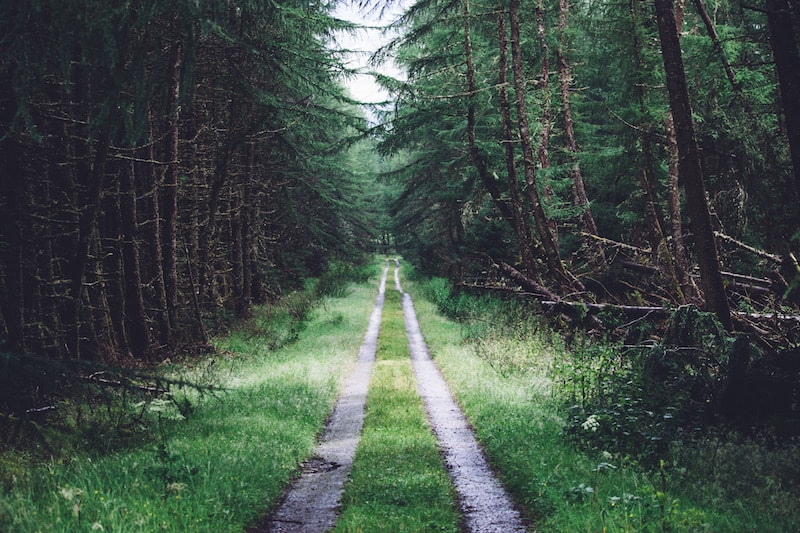
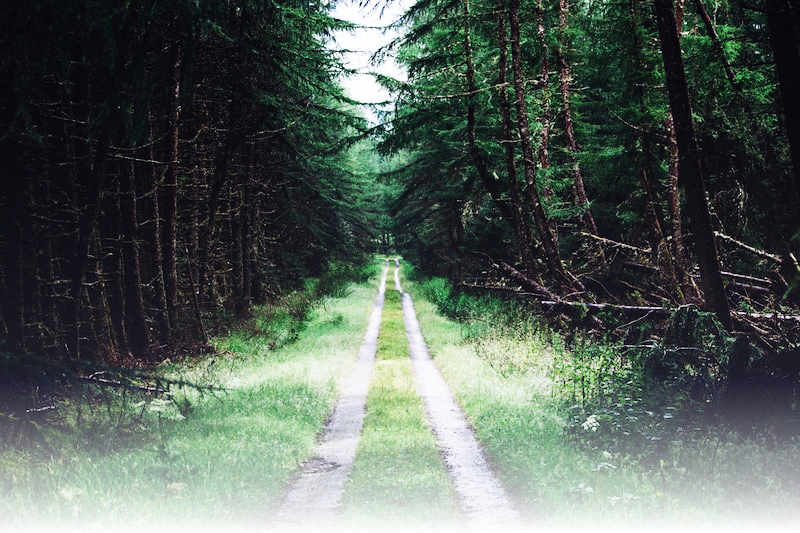
feat: updated pic and color for footer btns

diff --git a/plainJaneTester/dist/index.html b/plainJaneTester/dist/index.html
@@ -1,1 +1,1 @@
-<!DOCTYPE html><html> <head> <meta charset="utf-8"> <meta name="viewport" content="width=device-width, initial-scale=1"> <title>Four Gun Rules</title> <link href="https://fonts.googleapis.com/css?family=Roboto:300,300i,400,400i,700" rel="stylesheet"> <link href='./css/styles.css' rel='stylesheet'> </head> <body> <section> <header class='center'> <div> <p> Whether you are just entering your new found hobby, a veteran or somewhere in between it is important to employ safety as a principle rule when operating firearms. </p><p> These are not my rules, these are OUR rules. </p></div></header> <summary> <img src='./img/road.jpg' alt='road'/> <p class='rules margin5px'> <h3 class='title center margin5px'>THE FOUR RULES</h3> <div class='ruleContainer'> <div class='rule'> 1. <span class='bold'>G</span><span class='italic'>uns should ALWAYS be treated as if they are loaded. (Even when they are not!)</span> </div><div class='rule'> 2. <span class='bold'>U</span><span class='italic'>nder no circumstance should you point your gun at anything you are not willing to destroy.</span> </div><div class='rule'> 3. <span class='bold'>N</span><span class='italic'>ever have your finger on the trigger until your sights are on target and you have made a decision to shoot.</span> </div><div class='rule'> 4. <span class='bold'>S</span><span class='italic'>ee your target and what is beyond it.</span> </div></div></p></summary> <div class='note italic'> *G.U.N.S. (A helpful and easy way to remember these rules) </div><main> <div class='ruleDesc'> <span class='bold'>Rule One:</span> <span class='italic'> Guns should ALWAYS be treated as if they are loaded. (Even when they are not!) This is an important guideline which naturally assists you with applying all other rules. Even after you have checked to see if your firearm is unloaded, never do anything that we would not do with a loaded gun. </span> </div><div class='ruleDesc'> <span class='bold'>Rule Two:</span> <span class='italic'> Under no circumstance should you point your gun at anything you are not willing to destroy. No matter what we are doing with our firearms, ALWAYS keep it pointed in a safe direction. Whether we are unloading it, cleaning it or just showing it to a friend, we never allow the muzzle to point at anything that we don’t want to put a hole in or anyone that you are not willing to kill. This should be applied at all times while handling a firearm no matter the circumstance. </span> </div><div class='ruleDesc'> <span class='bold'>Rule Three:</span> <span class='italic'> Never have your finger on the trigger until your sights are on target and you have made a decision to shoot. When you operate a firearm, you should always be aware of your finger placement. A safe, trained shooter never, ever finds any of his fingers seated on the trigger or within the trigger guard if they didn’t make the conscious decision to place it there. Your fingers should rest safely, indexed high on the frame of your firearm until you have deliberately made the decision to engage a target. </span> </div><div class='ruleDesc'> <span class='bold'>Rule Four:</span> <span class='italic'> See your target and what is beyond it. Every shooter is responsible for where their bullets land. Just as important as it is to identify your target, we must also know what surrounds it. It is important for every shooter to consider where your bullets may land if you miss your target. Whether we are at the range, hunting outdoors or self-defense, we should be conscious of the type and power of the firearm we are shooting, our target and what potentially may be hit once we have fired. </span> </div><div class='tagLine italic'> Always remember and apply these four rules. Have fun, practice safely, and train responsibly! </div></main> <footer> <div class='footerTxt italic'> If you would like to take classes regardless of your skill level, become more knowledgeable on best practice or would like to find the best place to purchase products try: <span> <a class='link' href="https://www.cowitness.com">www.cowitness.com</a> </span> </div><button class='learnBtn' onclick="location.href='https://www.cowitness.com';">LEARN MORE</button> </footer> </section> </body></html>
+<!DOCTYPE html><html> <head> <meta charset="utf-8"> <meta name="viewport" content="width=device-width, initial-scale=1"> <title>Four Gun Rules</title> <link href="https://fonts.googleapis.com/css?family=Roboto:300,300i,400,400i,700" rel="stylesheet"> <link href='./css/styles.css' rel='stylesheet'> </head> <body> <section> <header class='center'> <div> <p> Whether you are just entering your new found hobby, a veteran or somewhere in between it is important to employ safety as a principle rule when operating firearms. </p><p> These are not my rules, these are OUR rules. </p></div></header> <summary> <div classs='imgDiv'> <img src='./img/road.jpg' alt='road'/> </div><div class='rulesDiv'> <p class='rules margin5px'> <h3 class='title center margin5px'>THE FOUR RULES</h3> <div class='ruleContainer'> <div class='rule'> 1. <span class='bold'>G</span><span class='italic'>uns should ALWAYS be treated as if they are loaded. (Even when they are not!)</span> </div><div class='rule'> 2. <span class='bold'>U</span><span class='italic'>nder no circumstance should you point your gun at anything you are not willing to destroy.</span> </div><div class='rule'> 3. <span class='bold'>N</span><span class='italic'>ever have your finger on the trigger until your sights are on target and you have made a decision to shoot.</span> </div><div class='rule'> 4. <span class='bold'>S</span><span class='italic'>ee your target and what is beyond it.</span> </div></div></p></div></summary> <div class='note italic'> *G.U.N.S. (A helpful and easy way to remember these rules) </div><main> <div class='ruleDesc'> <span class='bold'>Rule One:</span> <span class='italic'> Guns should ALWAYS be treated as if they are loaded. (Even when they are not!) This is an important guideline which naturally assists you with applying all other rules. Even after you have checked to see if your firearm is unloaded, never do anything that we would not do with a loaded gun. </span> </div><div class='ruleDesc'> <span class='bold'>Rule Two:</span> <span class='italic'> Under no circumstance should you point your gun at anything you are not willing to destroy. No matter what we are doing with our firearms, ALWAYS keep it pointed in a safe direction. Whether we are unloading it, cleaning it or just showing it to a friend, we never allow the muzzle to point at anything that we don’t want to put a hole in or anyone that you are not willing to kill. This should be applied at all times while handling a firearm no matter the circumstance. </span> </div><div class='ruleDesc'> <span class='bold'>Rule Three:</span> <span class='italic'> Never have your finger on the trigger until your sights are on target and you have made a decision to shoot. When you operate a firearm, you should always be aware of your finger placement. A safe, trained shooter never, ever finds any of his fingers seated on the trigger or within the trigger guard if they didn’t make the conscious decision to place it there. Your fingers should rest safely, indexed high on the frame of your firearm until you have deliberately made the decision to engage a target. </span> </div><div class='ruleDesc'> <span class='bold'>Rule Four:</span> <span class='italic'> See your target and what is beyond it. Every shooter is responsible for where their bullets land. Just as important as it is to identify your target, we must also know what surrounds it. It is important for every shooter to consider where your bullets may land if you miss your target. Whether we are at the range, hunting outdoors or self-defense, we should be conscious of the type and power of the firearm we are shooting, our target and what potentially may be hit once we have fired. </span> </div><div class='tagLine italic'> Always remember and apply these four rules. Have fun, practice safely, and train responsibly! </div></main> <footer> <div class='footerTxt italic'> If you would like to take classes regardless of your skill level, become more knowledgeable on best practice or would like to find the best place to purchase products try: <span> <a class='link' href="https://www.cowitness.com">www.cowitness.com</a> </span> </div><button class='learnBtn' onclick="location.href='https://www.cowitness.com';">LEARN MORE</button> </footer> </section> <script>(function(i,s,o,g,r,a,m){i['GoogleAnalyticsObject']=r;i[r]=i[r]||function(){(i[r].q=i[r].q||[]).push(arguments)},i[r].l=1*new Date();a=s.createElement(o), m=s.getElementsByTagName(o)[0];a.async=1;a.src=g;m.parentNode.insertBefore(a,m)})(window,document,'script','https://www.google-analytics.com/analytics.js','ga'); ga('create', 'UA-89741549-1', 'auto'); ga('send', 'pageview'); </script> </body></html>

diff --git a/plainJaneTester/dist/css/styles.css b/plainJaneTester/dist/css/styles.css
@@ -1,1 +1,1 @@
-body{font-family:'Roboto', sans-serif;line-height:1.7em;font-size:1.2em}section{margin:2% 10%}header{font-style:italic;font-weight:300}img{width:100%;height:300px;border-top-left-radius:3%;border-top-right-radius:3%}.title{font-weight:400}summary{border:solid 1px #000;border-radius:3%}.note{margin-bottom:50px;margin-top:5px}.rule{margin-left:10px;margin-bottom:5px}.ruleDesc{margin:10px 0}.tagLine{margin-top:30px;margin-bottom:60px}footer{display:flex;flex-direction:column}.footerTxt{margin-bottom:20px}.learnBtn{align-self:center;background-color:lightblue;box-shadow:1px 1px 1px 1px rgba(0, 0, 0, 0.39);border:none;cursor:pointer;color:#fff;padding:5px 25px;margin-bottom:20px}.center{text-align:center}.margin5px{margin:5px 0}.bold{font-weight:bold}.italic{font-style:italic;font-weight:300}.link{color:lightblue}@media (max-width: 768px){section{margin:2% 0}img{height:250px}}@media (min-width: 768px){.rule{text-align:center}}@media (min-width: 1000px){section{margin:2% 20%}}
+body{font-family:'Roboto', sans-serif;line-height:1.7em;font-size:1.2em}section{margin:2% 10%}header{font-style:italic;font-weight:300}img{width:100%;height:300px;border-top-left-radius:3%;border-top-right-radius:3%}.title{font-weight:400}summary{border:solid 1px #000;border-radius:3%}.note{margin-bottom:50px;margin-top:5px}.rule{margin-left:10px;margin-bottom:5px}.ruleDesc{margin:10px 0}.tagLine{margin-top:30px;margin-bottom:60px}footer{display:flex;flex-direction:column}.footerTxt{margin-bottom:20px}.learnBtn{align-self:center;background-color:navy;box-shadow:1px 1px 1px 1px rgba(0, 0, 0, 0.39);border:none;cursor:pointer;color:#fff;padding:5px 25px;margin-bottom:20px}.center{text-align:center}.margin5px{margin:5px 0}.bold{font-weight:bold}.italic{font-style:italic;font-weight:300}.link{color:navy}@media (max-width: 768px){section{margin:2% 0}img{height:250px}}@media (min-width: 768px){.rule{text-align:center}}@media (min-width: 1000px){section{margin:2% 20%}}

diff --git a/plainJaneTester/src/index.html b/plainJaneTester/src/index.html
@@ -97,5 +97,15 @@
       </footer>
 
     </section>
+
+    <script>
+      (function(i,s,o,g,r,a,m){i['GoogleAnalyticsObject']=r;i[r]=i[r]||function(){
+      (i[r].q=i[r].q||[]).push(arguments)},i[r].l=1*new Date();a=s.createElement(o),
+      m=s.getElementsByTagName(o)[0];a.async=1;a.src=g;m.parentNode.insertBefore(a,m)
+      })(window,document,'script','https://www.google-analytics.com/analytics.js','ga');
+
+      ga('create', 'UA-89741549-1', 'auto');
+      ga('send', 'pageview');
+    </script>
   </body>
 </html>

diff --git a/plainJaneTester/src/css/styles.css b/plainJaneTester/src/css/styles.css
@@ -48,7 +48,7 @@ footer{
 }
 .learnBtn{
   align-self: center;
-  background-color: lightblue;
+  background-color: navy;
   box-shadow: 1px 1px 1px 1px rgba(0, 0, 0, 0.39);
   border: none;
   cursor: pointer;
@@ -70,7 +70,7 @@ footer{
   font-weight: 300;
 }
 .link{
-  color: lightblue;
+  color: navy;
 }
 @media (max-width: 768px){
   section{
